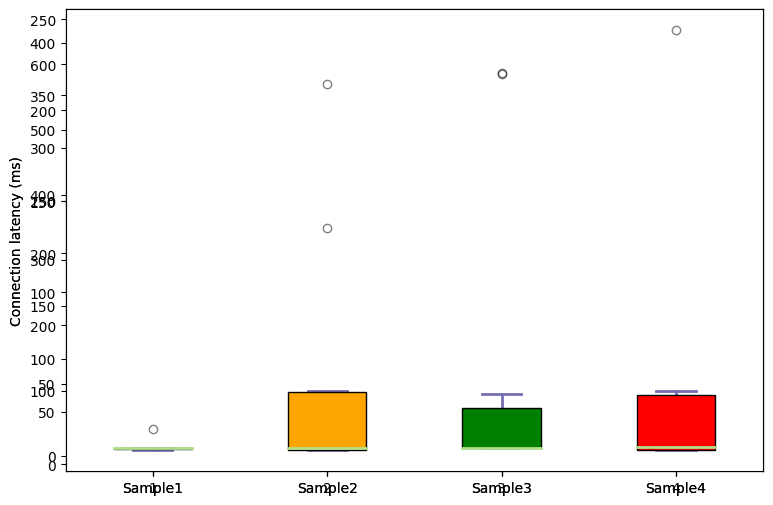
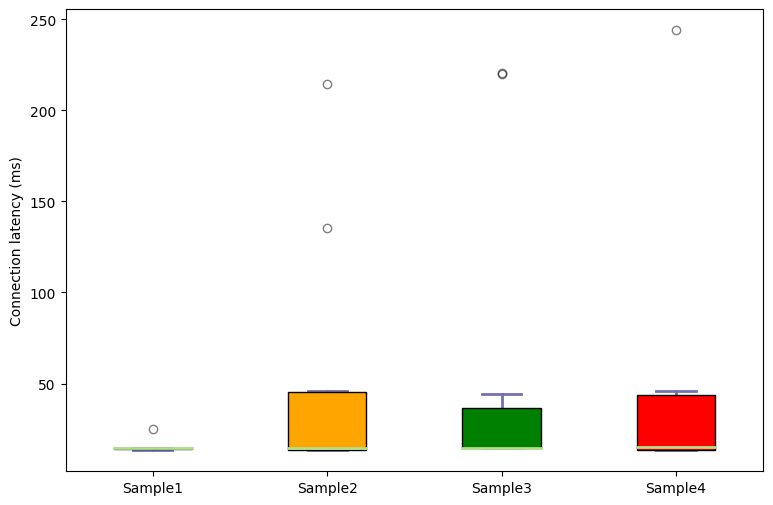
update evaluation scripts

diff --git a/plots/evaluation.py b/plots/evaluation.py
@@ -60,11 +60,8 @@ def quicDelay ():
         median.set(color='#b2df8a', linewidth=2)
 
     ## change the style of fliers and their fill
-    for flier in bp['fliers']:
-        flier.set(marker='o', color='#e7298a', alpha=0.5)
-
-    # Save the figure
-    fig.savefig('fig1.png', bbox_inches='tight')
+    for color, flier in zip(colors, bp['fliers']):
+        flier.set(marker='.', color=color, alpha=0.1)
 
     ## Custom x-axis labels
     ax.set_xticklabels(['Sample1', 'Sample2', 'Sample3', 'Sample4'])
@@ -114,8 +111,6 @@ def TLSDelay():
     for flier in bp['fliers']:
         flier.set(marker='o', color='#e7298a', alpha=0.5)
 
-    # Save the figure
-    fig.savefig('fig1.png', bbox_inches='tight')
 
     ## Custom x-axis labels
     ax.set_xticklabels(['Sample1', 'Sample2', 'Sample3', 'Sample4'])
@@ -164,8 +159,6 @@ def quicLoss():
     for flier in bp['fliers']:
         flier.set(marker='o', color='#e7298a', alpha=0.5)
 
-    # Save the figure
-    fig.savefig('QUIC_loss.png', bbox_inches='tight')
 
     ## Custom x-axis labels
     ax.set_xticklabels(['Sample1', 'Sample2', 'Sample3', 'Sample4'])
@@ -174,7 +167,7 @@ def quicLoss():
     ax.get_xaxis().tick_bottom()
     ax.get_yaxis().tick_left()
 
-    fig.savefig('quic_delay.png', bbox_inches='tight')
+    fig.savefig('QUIC_loss.png', bbox_inches='tight')
 
 def TLSLoss():
     data_to_plot = processdata("../TCP_TLS_traffic/0ms0%/Latency.txt", "../TCP_TLS_traffic/0ms10%/Latency.txt",
@@ -214,8 +207,6 @@ def TLSLoss():
     for flier in bp['fliers']:
         flier.set(marker='o', color='#e7298a', alpha=0.5)
 
-    # Save the figure
-    fig.savefig('fig1.png', bbox_inches='tight')
 
     ## Custom x-axis labels
     ax.set_xticklabels(['Sample1', 'Sample2', 'Sample3', 'Sample4'])
@@ -229,6 +220,6 @@ def TLSLoss():
 
 if __name__ == "__main__":
     quicDelay();
-    TLSDelay();
-    quicLoss();
-    TLSLoss();
+    #TLSDelay();
+    #quicLoss();
+    #TLSLoss();
